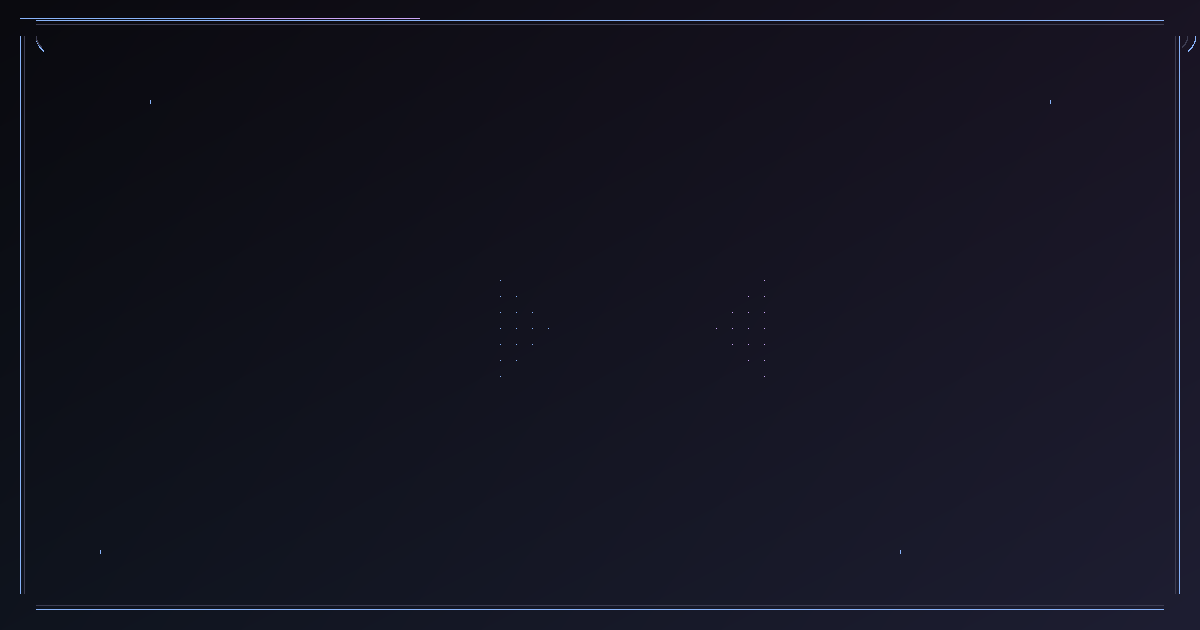
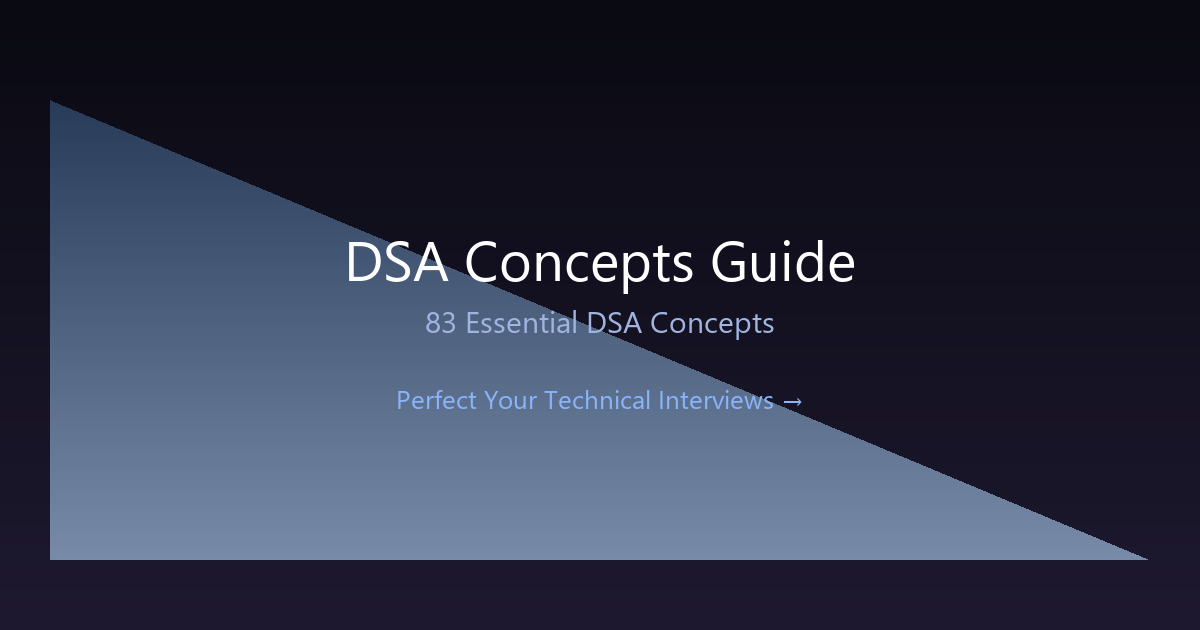
fix: shorten page title and update og-image with headline + CTA
- Title: 'DSA Concepts Guide - 83 Essential DSA Concepts' (under 60 chars)
- og-image: added headline 'DSA Concepts Guide', subtitle '83 Essential DSA Concepts', and CTA 'Perfect Your Technical Interviews'

diff --git a/index.md b/index.md
@@ -1,7 +1,7 @@
 ---
 layout: default
-title: DSA Concepts Guide — 83 Algorithms & Data Structures
-description: Master 83 essential DSA concepts — arrays, trees, graphs, DP, and more. Pseudocode and notes for technical interview prep.
+title: DSA Concepts Guide - 83 Essential DSA Concepts
+description: Master 83 essential DSA concepts with pseudocode — arrays, trees, graphs, DP, and more for interview prep.
 image: /assets/og-image.png
 twitter:
   card: summary_large_image